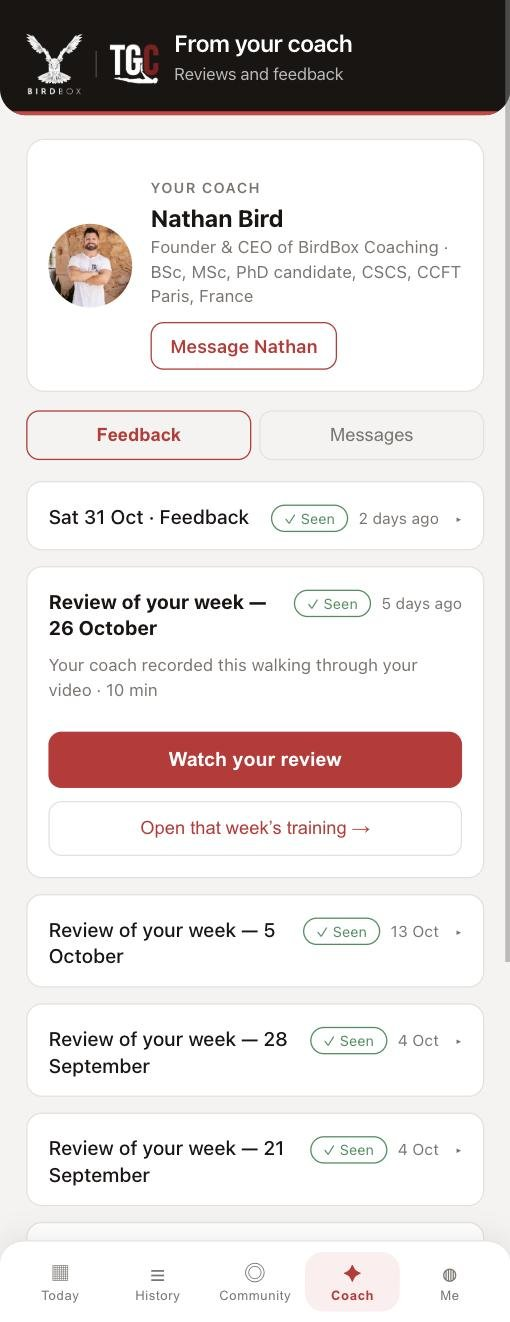
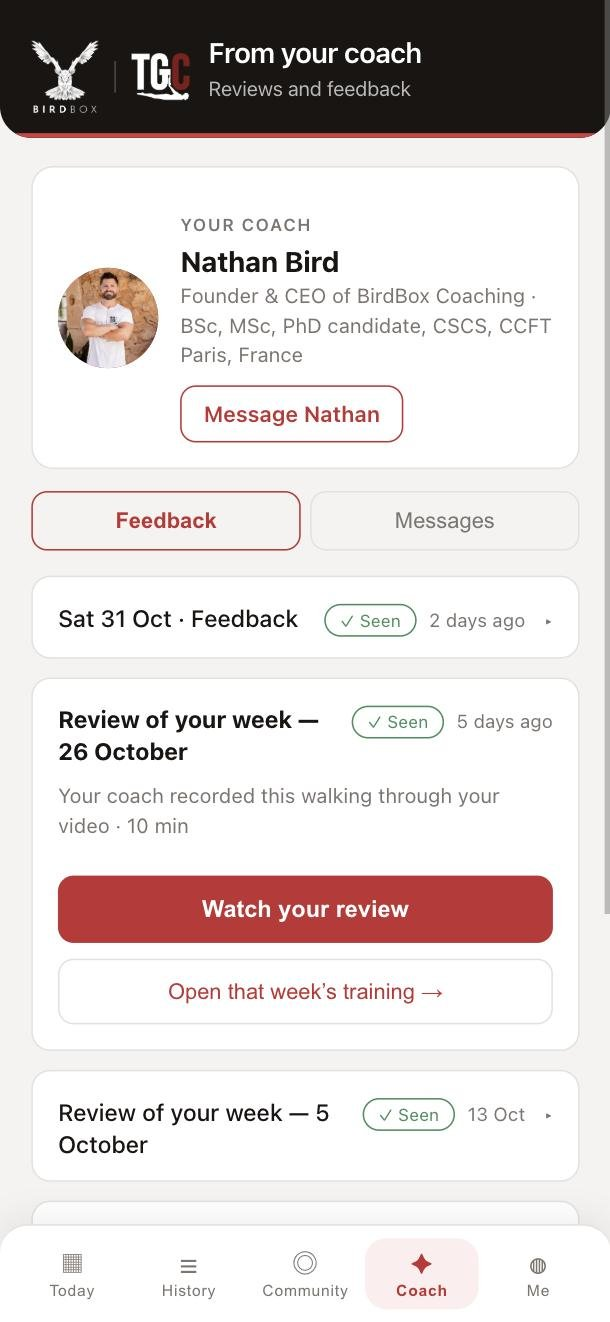
TGC sales draft: bigger film, phone-shaped Coach screen, narrower example (Nathan, 2 Nov)

diff --git a/tgc/programming/new/index.html b/tgc/programming/new/index.html
@@ -614,8 +614,8 @@
   .ps-see { display: block; font-size: 14px; font-weight: 700; color: #ffffff; margin: -4px 0 14px; }
   /* the film is portrait (9:16), filmed the way a phone shows it */
   .ps-film { margin: 0; }
-  .ps-fbrow { display: grid; grid-template-columns: 300px 260px 1fr; gap: 32px; align-items: start; margin: 0 0 36px; }
-  .ps-fbrow .ps-phone { max-width: 260px; margin: 0 0 10px; }
+  .ps-fbrow { display: grid; grid-template-columns: 380px 300px minmax(0, 360px); gap: 40px; align-items: start; margin: 0 0 36px; }
+  .ps-fbrow .ps-phone { max-width: 300px; margin: 0 0 10px; }
   .ps-fbrow .ps-fbcard { max-width: none; }
   .ps-flow { list-style: none; margin: 0; padding: 0; max-width: 460px; }
   .ps-flow--row { display: grid; grid-template-columns: repeat(4, 1fr); gap: 22px; max-width: none; }
@@ -627,6 +627,10 @@
   .ps-flow p { margin: 0; color: #DCD7D8; font-size: 15px; line-height: 1.5; }
   .ps-film video { width: 100%; aspect-ratio: 9 / 16; display: block; border: 1px solid var(--line);
     border-radius: 18px; background: #0B0909; }
+  /* not wide enough for three: film and phone side by side, example under */
+  @media (min-width: 761px) and (max-width: 1180px) {
+    .ps-fbrow { grid-template-columns: minmax(0, 380px) minmax(0, 300px); }
+    .ps-fbrow > :last-child { grid-column: 1 / -1; max-width: 520px; } }
   @media (max-width: 760px) {
     .ps-fbrow { grid-template-columns: 1fr; } .ps-film { max-width: 340px; margin: 0 auto; width: 100%; }
     .ps-fbrow .ps-phone { margin: 0 auto 10px; } .ps-fbrow .ps-note { text-align: center; }
@@ -761,7 +765,7 @@
         <p class="ps-note" data-film-note style="margin-top:10px;">Real reviews from BirdBox coaches, shown with the athletes&rsquo; permission. Music added.</p>
       </div>
       <div>
-        <div class="ps-phone"><img src="/tgc/programming/new/app-coach-feedback.jpg" alt="The Coach tab in the app: your coach, then every review and piece of feedback, each with a button to watch or read it" loading="lazy" width="510" height="1322"></div>
+        <div class="ps-phone"><img src="/tgc/programming/new/app-coach-feedback.jpg" alt="The Coach tab in the app: your coach, then every review and piece of feedback, each with a button to watch or read it" loading="lazy" width="610" height="1322"></div>
         <p class="ps-note">Every review stays in your app to watch again.</p>
       </div>
       <div>
